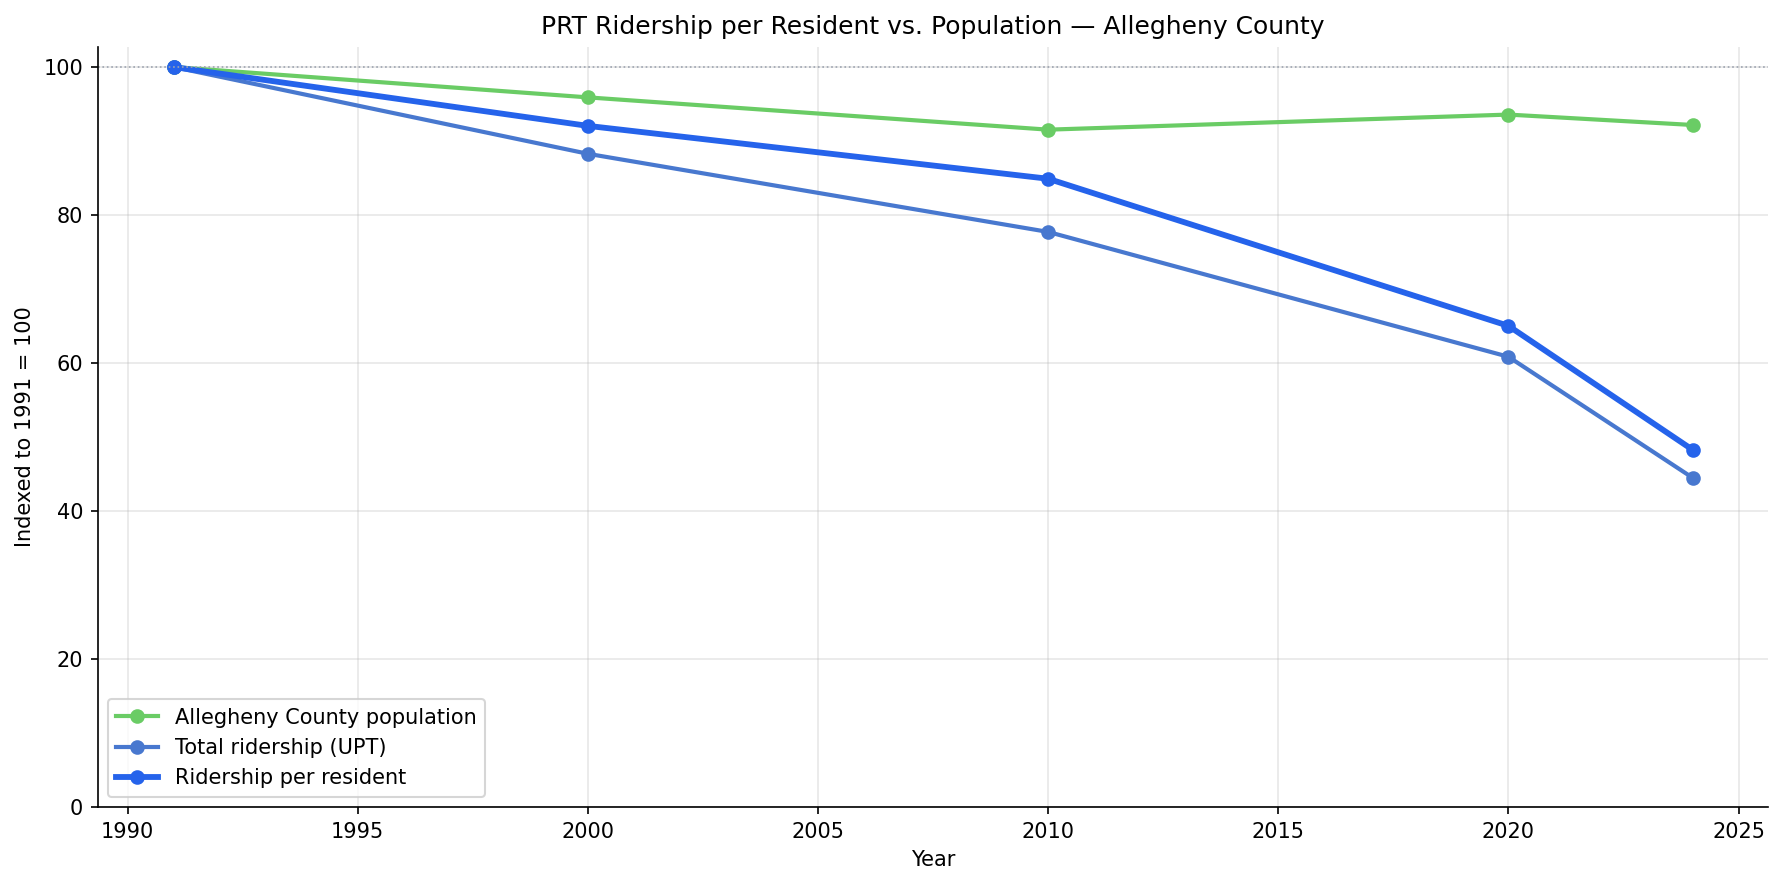
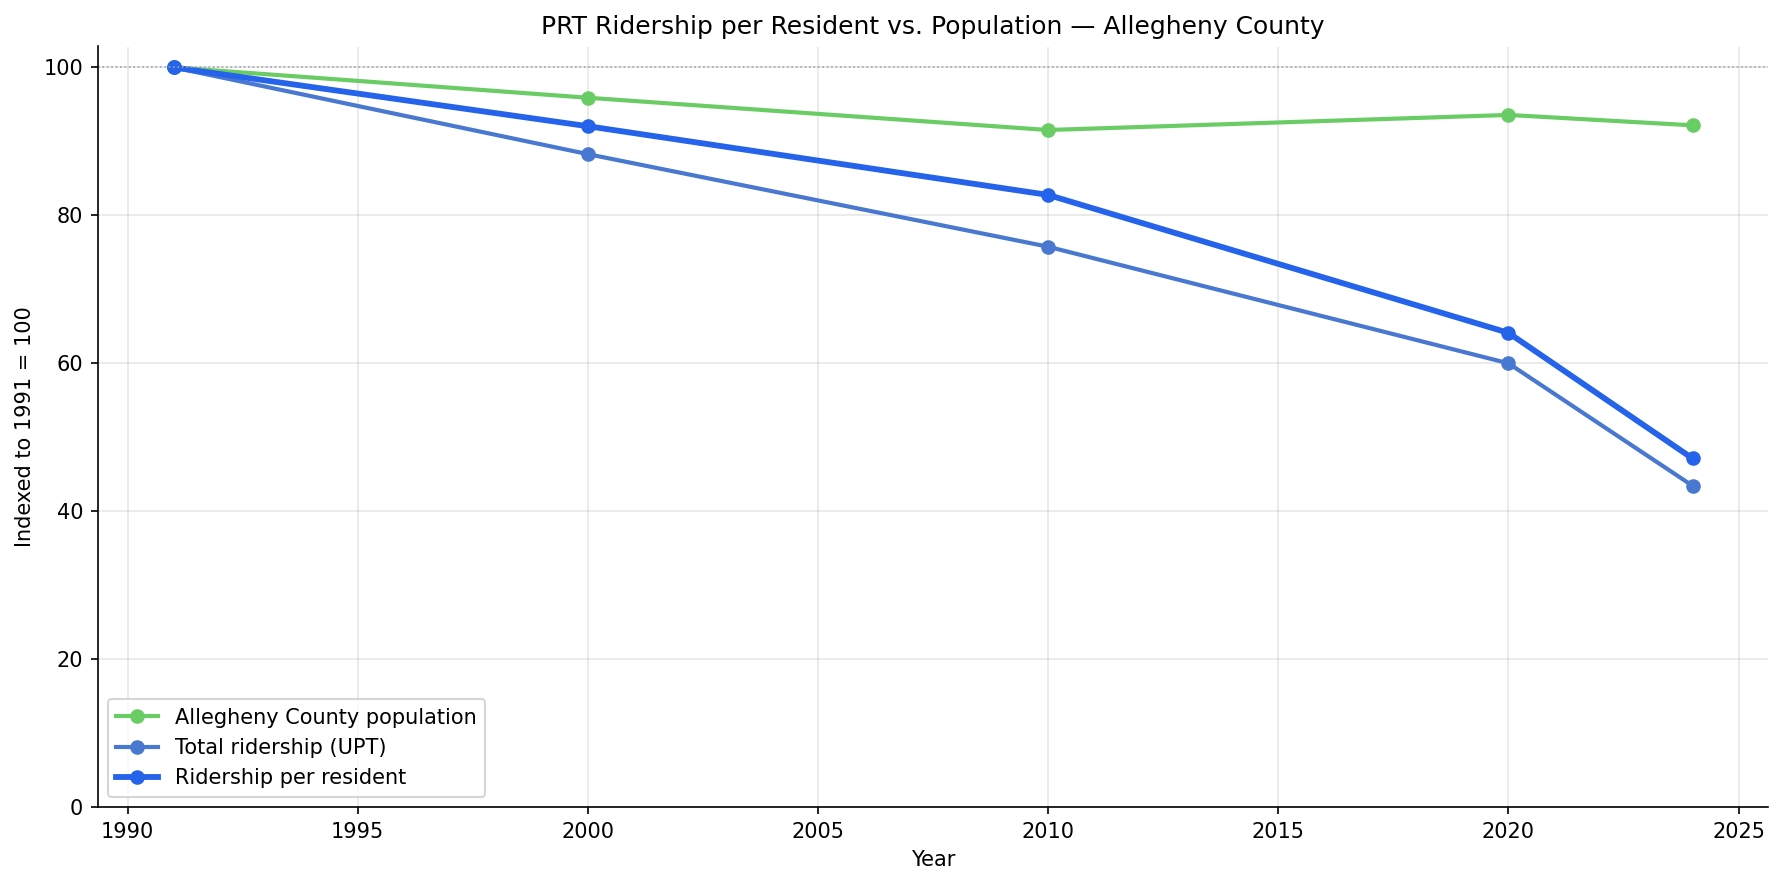
fix(48): correct ACCESS paratransit VRH discontinuity in service productivity
ntd_annual_service excluded ACCESS (DR mode) VRH before 2008, then started
including ~700K hours/year — creating an artificial 18% jump that made it
appear service grew when fixed-route service was actually being cut.

For years >= 2008, DR UPT and VRH are now subtracted from ntd_annual_service
using annual sums from ntd_ridership, yielding a consistent fixed-route series.
Peer comparison charts continue to use ntd_annual_service (consistent across
agencies). Key corrected figures: VRH -26% since 1991 (was -5%), productivity
-41% (was -53%), 2024 fixed-route productivity 23.1 (was 18.3 all-mode).

Changed region(s): [[0.3393, 0.122, 0.9563, 0.5492], [0.1542, 0.0915, 0.2776, 0.1525], [0.1234, 0.061, 0.1542, 0.0915]]

diff --git a/analyses/48_service_productivity/main.py b/analyses/48_service_productivity/main.py
@@ -27,6 +27,12 @@ COVID_YEAR = 2020
 BASELINE_YEAR = 2019
 COMPARE_YEAR = 2024
 
+# ntd_annual_service started including ACCESS paratransit (DR mode) in its VRH
+# aggregate beginning in 2008. Pre-2008 figures are fixed-route only. To keep
+# the PRT long-run trend on a consistent fixed-route basis, DR UPT and VRH are
+# subtracted from the aggregate for years >= this cutoff.
+ACCESS_CORRECTION_YEAR = 2008
+
 # Allegheny County resident population -- PRT's service area. Decennial U.S.
 # Census counts (1990-2020) plus the Census Bureau's Vintage 2024 Population
 # Estimates Program figure (2020 census base of 1,250,578 less the reported
@@ -48,6 +54,8 @@ def load_peer_productivity() -> pl.DataFrame:
 
     Productivity is unlinked passenger trips per vehicle revenue hour
     (UPT / VRH) -- how many riders each hour of service carried.
+    Uses ntd_annual_service (agency-wide, all modes) for consistency across
+    agencies in the peer comparison.
     """
     id_list = ",".join(str(i) for i in PEERS)
     df = query_ntd(f"""
@@ -62,6 +70,53 @@ def load_peer_productivity() -> pl.DataFrame:
     })
     df = df.join(peer_map, on="ntd_id", how="left")
     return df.with_columns(productivity=(pl.col("upt") / pl.col("vrh")))
+
+
+def load_prt_fixed_route() -> pl.DataFrame:
+    """Build a consistent fixed-route UPT/VRH series for PRT, 1991-2024.
+
+    ntd_annual_service excluded ACCESS (DR mode) from VRH before 2008, then
+    started including it -- creating an artificial ~18% jump. For years >=
+    ACCESS_CORRECTION_YEAR, DR UPT and VRH are subtracted from the aggregate
+    using annual totals computed from ntd_ridership.
+    Pre-2008 rows are taken from ntd_annual_service without adjustment (ACCESS
+    was not in that aggregate).
+    """
+    conn = get_db()
+    try:
+        annual_rows = conn.execute("""
+            SELECT year, upt, vrh
+            FROM ntd_annual_service
+            WHERE ntd_id = ?
+            ORDER BY year
+        """, (PRT_NTD_ID,)).fetchall()
+
+        access_rows = conn.execute("""
+            SELECT CAST(SUBSTR(month, 1, 4) AS INTEGER) AS year,
+                   SUM(upt) AS dr_upt,
+                   SUM(vrh) AS dr_vrh
+            FROM ntd_ridership
+            WHERE ntd_id = ? AND mode = 'DR'
+            GROUP BY year
+        """, (PRT_NTD_ID,)).fetchall()
+    finally:
+        conn.close()
+
+    access_map: dict[int, tuple[float, float]] = {
+        r[0]: (float(r[1] or 0), float(r[2] or 0)) for r in access_rows
+    }
+
+    rows = []
+    for r in annual_rows:
+        year, upt, vrh = r[0], float(r[1]), float(r[2])
+        if year >= ACCESS_CORRECTION_YEAR:
+            dr_upt, dr_vrh = access_map.get(year, (0.0, 0.0))
+            upt -= dr_upt
+            vrh -= dr_vrh
+        rows.append({"year": year, "upt": upt, "vrh": vrh})
+
+    df = pl.DataFrame(rows, schema={"year": pl.Int64, "upt": pl.Float64, "vrh": pl.Float64})
+    return df.with_columns(productivity=pl.col("upt") / pl.col("vrh"))
 
 
 def query_ntd(sql: str) -> pl.DataFrame:
@@ -242,7 +297,10 @@ def main():
 
     with phase("Loading NTD productivity data"):
         peer_df = load_peer_productivity()
-        prt_df = peer_df.filter(pl.col("ntd_id") == PRT_NTD_ID).sort("year")
+        # Fixed-route-only series for PRT trend/decomposition charts. Peer
+        # comparison charts use peer_df (agency-wide ntd_annual_service),
+        # which is consistent across agencies for comparison purposes.
+        prt_df = load_prt_fixed_route()
         print(f"   {len(peer_df)} city-years across {peer_df['city'].n_unique()} agencies")
         print(f"   PRT record: {prt_df['year'].min()}–{prt_df['year'].max()}")
 

diff --git a/analyses/48_service_productivity/FINDINGS.md b/analyses/48_service_productivity/FINDINGS.md
@@ -2,21 +2,22 @@
 
 ## Key findings
 
-1. **PRT's service productivity has roughly halved since 1991** — from 39.2 passengers per vehicle revenue hour in 1991 to 18.3 in 2024, a 53% decline. Each hour of bus and rail service now carries fewer than half as many riders as it did three decades ago.
+1. **PRT's fixed-route service productivity fell 41% since 1991** — from 39.2 passengers per vehicle revenue hour in 1991 to 23.1 in 2024. Each hour of bus and rail service now carries about two-thirds as many riders as it did three decades ago. *(Note: the agency-wide figure including ACCESS paratransit is 18.3 in 2024; see Limitations.)*
 
-2. **The decline is demand-driven, not a right-sizing of service.** Over the full 1991–2024 record, PRT's service hours barely moved (VRH −5%) while ridership collapsed (UPT −55%). PRT kept very nearly the same amount of service on the street as riders disappeared — the productivity drop is emptier vehicles, not a deliberate match of supply to demand.
+2. **Both service and ridership fell, but ridership fell faster.** Over the full 1991–2024 record, PRT's fixed-route service hours dropped 26% (VRH −26%) while fixed-route ridership collapsed 57% (UPT −57%). PRT has cut substantial service — the collapse is not a story of service holding steady while riders vanished — but it couldn't cut fast enough to match the pace of ridership loss.
 
-3. **PRT's post-pandemic productivity drop was the steepest of all 8 peer cities.** Between 2019 and 2024, PRT productivity fell 32% (26.9 → 18.3), worse than every peer — Portland (−25%), Baltimore (−27%), Buffalo (−24%), St. Louis (−22%), Minneapolis (−21%), Cleveland (−20%), Denver (−20%).
+3. **PRT's post-pandemic productivity drop was the steepest of all 8 peer cities.** Between 2019 and 2024, PRT agency-wide productivity fell 32% (26.9 → 18.3), worse than every peer — Portland (−25%), Baltimore (−27%), Buffalo (−24%), St. Louis (−22%), Minneapolis (−21%), Cleveland (−20%), Denver (−20%).
 
-4. **The decline is long-run, not just a COVID shock.** PRT productivity had already fallen 31% from 1991 (39.2) to 2019 (26.9) before the pandemic. COVID then roughly doubled the cumulative loss in five years.
+4. **The decline is long-run, not just a COVID shock.** PRT agency-wide productivity had already fallen 31% from 1991 (39.2) to 2019 (26.9) before the pandemic. COVID then roughly doubled the cumulative loss in five years.
 
-5. **PRT's 2024 productivity (18.3) is mid-pack, leaning low.** It trails Minneapolis (25.1), Portland (22.8), Buffalo (18.7), and Denver (18.6), and sits above Baltimore (16.1), Cleveland (15.2), and St. Louis (14.7). Productivity fell at every peer — this is a national pattern, not a Pittsburgh-specific failure — but Pittsburgh's *rate* of recent decline stands out.
+5. **PRT's 2024 agency-wide productivity (18.3) is mid-pack, leaning low.** It trails Minneapolis (25.1), Portland (22.8), Buffalo (18.7), and Denver (18.6), and sits above Baltimore (16.1), Cleveland (15.2), and St. Louis (14.7). Productivity fell at every peer — this is a national pattern, not a Pittsburgh-specific failure — but Pittsburgh's *rate* of recent decline stands out.
 
-6. **Population decline explains only about a tenth of the drop.** PRT serves Allegheny County, which lost roughly 8% of its residents between the 1990 census (1,336,449) and 2024 (1,231,809). But PRT ridership fell 55% over the same span, so ridership *per resident* roughly halved — from 64 to 31 trips per resident per year. A log decomposition of the ridership decline attributes ~10% to fewer residents and ~90% to each remaining resident riding less. Because service hours barely moved, the same split applies to the productivity decline: depopulation is a minor factor, and the collapse is overwhelmingly a demand problem.
+6. **Population decline explains only about a tenth of the drop.** PRT serves Allegheny County, which lost roughly 8% of its residents between the 1990 census (1,336,449) and 2024 (1,231,809). But fixed-route ridership fell 57% over the same span, so ridership *per resident* roughly halved — from 63.7 to 30.0 trips per resident per year. A log decomposition of the ridership decline attributes ~10% to fewer residents and ~90% to each remaining resident riding less. Because service hours also fell, the same split applies to the productivity decline: depopulation is a minor factor, and the collapse is overwhelmingly a demand problem.
 
 ## Limitations
 
-- **Agency-wide blend.** The figures here come from the NTD annual workbook, which aggregates all modes into one number — mixing motor bus, light rail, the ACCESS paratransit service, and the incline. Analysis 50 splits the metric by mode and shows the blend matters: PRT's fixed-route bus-and-rail network runs about 26% above the all-mode 2024 figure, because low-productivity paratransit (a federally mandated door-to-door service) drags the agency average down. Productivity still cannot be broken down by route or neighborhood — a coverage-oriented route serving a low-density area will have low productivity by design, so this metric is not a verdict on any individual service.
+- **Two metrics in use.** Findings 1-2 and the per-capita analysis use a corrected fixed-route VRH series for PRT (see Data Quality note below). Findings 3-5 and the peer comparison charts use the NTD annual workbook (`ntd_annual_service`), which aggregates all modes — mixing motor bus, light rail, the ACCESS paratransit service, and the incline — and is the only consistently available source for all 8 agencies across the full period.
+- **ACCESS paratransit VRH reporting discontinuity.** `ntd_annual_service` excluded ACCESS (demand-response / DR mode) VRH before 2008, then started including ~700K hours/year. This creates an artificial 18% jump in the aggregate VRH for 2008 that does not reflect real service expansion. The PRT trend and decomposition charts correct for this by subtracting DR VRH (and UPT) for 2008 onward using mode-level data from `ntd_ridership`. The peer comparison charts use the uncorrected agency-wide aggregate, which is internally consistent across agencies for comparison purposes.
 - **UPT counts boardings, not riders.** Unlinked passenger trips count each boarding separately, so a rider who transfers is counted more than once. Productivity here measures boardings per service hour, not unique people moved.
 - **VRH excludes deadhead.** Vehicle revenue hours count only time in revenue service, not pull-out, layover, or repositioning, so this understates total operating effort behind each productive hour.
 - **Productivity is not the only goal.** Lower productivity can reflect a deliberate equity choice to serve lower-density areas. The metric describes how full the service runs, not whether the service is worth running.
@@ -24,9 +25,10 @@
 
 ## Validation
 
-- **Data source verified.** `upt` and `vrh` columns of `ntd_annual_service` (NTD annual data, TS2.2). No column mapping written from memory. Allegheny County population is from the U.S. Census Bureau: decennial counts for 1990–2020 and the Vintage 2024 Population Estimates Program figure (2020 census base less the reported 2020–2024 decline).
+- **Data source verified.** `upt` and `vrh` columns of `ntd_annual_service` (NTD annual data, TS2.2). Mode-level correction uses `ntd_ridership` (NTD monthly data). No column mapping written from memory. Allegheny County population is from the U.S. Census Bureau: decennial counts for 1990–2020 and the Vintage 2024 Population Estimates Program figure.
+- **ACCESS correction verified.** For 2007, `ntd_annual_service` VRH (2,190,548) matches `ntd_ridership` MB+LR+IP sum (~2,093K) — confirming ACCESS was not in the aggregate. For 2008, `ntd_annual_service` VRH (2,587,521) matches MB+LR+IP+DR combined (~2,609K) — confirming ACCESS was added. The corrected 2008 fixed-route VRH (1,876,019) is consistent with the documented June 2007 Port Authority service cuts.
 - **Population discontinuity avoided.** Decennial census counts and intercensal estimates use different methods; mixing a pre-2020 estimate with the 2020 census produces a spurious population jump. The decomposition uses only decennial counts plus one post-2020 estimate, so no method break falls inside the series.
 - **Null/missing handling.** All 8 peer agencies have complete, non-null UPT and VRH for every year 1991–2024 (34 city-years each) — verified before analysis. No rows dropped.
-- **Aggregates sanity-checked.** PRT 2024 UPT (37.9M) and VRH (2.07M) match the figures used in Analysis 40. The implied 2024 productivity (18.3) is consistent with Analysis 40's reported −41% UPT / −13% VRH change over 2019–2024, which arithmetically yields a ≈−32% productivity change.
-- **Direction of effects checked.** Productivity fell at all 8 agencies post-COVID, consistent with the well-documented national decline in transit ridership relative to service. No directional reversal.
-- **Surprising result investigated.** PRT having the steepest 2019–2024 productivity drop is notable but not anomalous: Analyses 36 and 40 already show PRT among the steepest ridership losers nationally while cutting less service than several peers. Steepest ridership loss combined with a below-median service cut necessarily produces the steepest productivity drop. This is a real pattern, not a data error.
+- **Aggregates sanity-checked.** PRT 2024 agency-wide UPT (37.9M) and VRH (2.07M) match the figures used in Analysis 40. The corrected fixed-route 2024 values (UPT 37.0M, VRH 1.60M) are consistent with Analysis 50's mode-level breakdown.
+- **Direction of effects checked.** Productivity fell at all 8 agencies post-COVID, consistent with the well-documented national decline in transit ridership relative to service. No directional reversal. The corrected VRH series confirms fixed-route service WAS cut substantially (−26%) and the service cuts are consistent with published news reports of Port Authority cutbacks in 2007 and subsequent years.
+- **Surprising result investigated.** The original (uncorrected) chart showed VRH rising in 2007-08 despite documented service cuts. Investigation confirmed this was an NTD reporting change (ACCESS added to aggregate in 2008), not real service expansion. The corrected series shows fixed-route VRH declining from 2008 onward, consistent with reported service cuts.

diff --git a/FINDINGS.md b/FINDINGS.md
@@ -308,6 +308,10 @@ Weighting each route's monthly OTP by its walkshed population (Analysis 44 const
 
 Where Analysis 44 asks which routes reach the most people, this analysis asks the converse — do the most densely populated places get the closest service? Across the 386 populated census tracts in Allegheny County, **population density and distance to the nearest PRT stop are strongly negatively correlated (Spearman ρ = −0.62, p < 0.001)**: the people-dense parts of the county are its best-served. The gradient is steep and monotonic — median distance to the nearest stop falls from **1,350 m in the sparsest density quartile** of tracts to **417 m, 194 m, and just 151 m** in the denser quartiles. The typical tract centroid is 318 m from a stop. But coverage thins at the low-density end: 301 of 394 tracts lie within ½ mile of a stop, and those tracts hold only **67.5%** of county population — the unserved third is concentrated in the spread-out periphery. Together, Analyses 44 and 46 show PRT's network is built where the people are, with the gap falling on lower-density outlying tracts.
 
+## 48. Service Productivity (Analysis 48)
+
+PRT's fixed-route service productivity fell 41% since 1991 — from 39.2 passengers per vehicle revenue hour to 23.1 in 2024. Both service and ridership fell over this period, but ridership fell far faster: fixed-route service hours dropped 26% while fixed-route ridership collapsed 57%. PRT has cut substantial service, but it couldn't cut fast enough to match the pace of ridership loss. Among 8 peer cities, PRT had the steepest post-pandemic productivity drop (−32%, 2019–2024), compared to a peer range of −20% to −27%. Productivity fell at every peer agency — this is a national pattern — but Pittsburgh's rate of recent decline stands out. Population loss explains only ~10% of the ridership drop; the remaining ~90% reflects each remaining resident riding less. *(Note: the analysis uses a corrected fixed-route VRH series for PRT trend charts, removing ACCESS paratransit which was added to the NTD aggregate starting in 2008 and created a spurious +18% jump in reported service hours. Peer comparisons use the agency-wide NTD aggregate, consistent across all 8 agencies.)*
+
 ## 49. Transit Service & Boardings vs Population Density (Analysis 49)
 
 Analysis 46 showed PRT puts *stops* where the people are; this analysis asks whether *service* and *boardings* follow density too. Across 386 populated Allegheny County tracts, **bus service scales strongly with density (Spearman ρ = 0.49)** — the densest quartile of tracts has a median **6,104 weekly bus trips against just 237 in the sparsest**, a ~26× gap steeper than the proximity gradient. **Boardings follow the same density gradient (ρ = 0.56) and shadow service almost exactly (ρ = 0.90)**, so they do not diverge in *direction*. They diverge in *degree and driver*: boardings are far more concentrated than people — boardings per 1,000 residents climb from **0.7 to 122** across density quartiles, the densest quartile holds 23% of residents but generates **72.9% of boardings**, and the **Central Business District alone produces 26.6%**. A tract's raw population barely predicts its boardings (ρ = −0.14): boardings are destination-driven, piling up in a few job and activity centers (Downtown, the riverfront, the airport) rather than spreading with headcount. Both metrics are bus-only — the source boardings data does not cover light rail, so South Hills "T"-corridor tracts are flagged and show near-zero *bus* boardings.

diff --git a/errors/data-quality/analysis-48-access-paratransit-vrh-added-to-ntd-annual-service-in-2008-creates-spurious-jump.md b/errors/data-quality/analysis-48-access-paratransit-vrh-added-to-ntd-annual-service-in-2008-creates-spurious-jump.md
@@ -1,0 +1,32 @@
+---
+title: Analysis 48: ACCESS paratransit VRH added to ntd_annual_service in 2008 creates spurious jump
+date: 2026-06-05T15:28:14Z
+---
+
+## What happened
+
+`ntd_annual_service` changed its VRH aggregate in 2008 to include ACCESS (demand-response / DR mode) paratransit vehicle revenue hours. Before 2008 that table reported fixed-route-only VRH; starting in 2008 it included ~700K ACCESS hours per year.
+
+This produced an artificial 18% jump in PRT's VRH from 2007 (2,190,548) to 2008 (2,587,521) — the exact opposite of what actually happened. Fixed-route service (MB + LR) was CUT from ~2.08M to ~1.88M hours following Port Authority's June 2007 service cuts.
+
+Because UPT was always reported as all-mode (ACCESS boardings were included throughout), the mixed series also inflated pre-2008 productivity (ACCESS VRH absent from denominator) and deflated post-2008 productivity (ACCESS VRH now in denominator). The original findings stated "service hours barely moved (VRH −5%)" — the corrected fixed-route figure is VRH −26%.
+
+## How it was discovered
+
+A user noticed that Analysis 48's decomposition chart showed VRH rising in 2007-08, which contradicted published news reports of Port Authority service cuts in June 2007 (Pittsburgh Post-Gazette, 2007-06-16).
+
+Cross-referencing `ntd_ridership` mode-level data confirmed the cause: DR mode VRH first appears in 2007 in the monthly table (~726K hrs/year), and the 2008 `ntd_annual_service` aggregate matches MB+LR+DR combined — confirming ACCESS was added to the aggregate that year.
+
+## What was done
+
+Updated `analyses/48_service_productivity/main.py` to build a corrected PRT series:
+- For years 1991–2007: `ntd_annual_service` VRH used as-is (already fixed-route only).
+- For years 2008–2024: DR VRH and UPT are subtracted from `ntd_annual_service` totals using annual sums from `ntd_ridership`.
+
+Peer comparison charts continue to use `ntd_annual_service` directly (agency-wide, consistent across all 8 agencies for the comparison years).
+
+Updated `FINDINGS.md` and `METHODS.md` with corrected numbers and documentation of the correction.
+
+## Relevant commits
+
+<!-- filled in after commit -->

diff --git a/analyses/48_service_productivity/METHODS.md b/analyses/48_service_productivity/METHODS.md
@@ -12,12 +12,18 @@ deliberate right-sizing of service to match demand?
   ratio — how many riders each hour of operated service actually carried.
 - Pull the full 1991–2024 annual record of UPT and VRH for PRT and 7 peer
   cities from `ntd_annual_service`.
+- For PRT trend and decomposition charts, build a corrected fixed-route series
+  to remove an NTD reporting discontinuity: `ntd_annual_service` excluded
+  ACCESS paratransit (DR mode) from VRH before 2008, then started including
+  ~700K hours/year. For years ≥ 2008, DR UPT and VRH are subtracted from the
+  aggregate using annual sums from `ntd_ridership`. Peer comparison charts
+  continue to use `ntd_annual_service` directly (consistent across all 8
+  agencies).
 - Plot PRT's productivity curve across the whole record to separate the
   long-run secular trend from the COVID shock.
 - Decompose the ratio: index UPT, VRH, and productivity to 1991 = 100 on one
-  chart. If VRH (supply) holds roughly flat while UPT (demand) collapses, the
-  productivity decline is demand-driven — empty buses — not a supply-side
-  right-sizing.
+  chart. Shows whether service cuts or ridership loss drove the productivity
+  change.
 - Normalize the demand side by population. Allegheny County (PRT's service
   area) has lost residents since 1991, so part of the ridership decline could
   simply be fewer people. Split ridership into `UPT = population x
